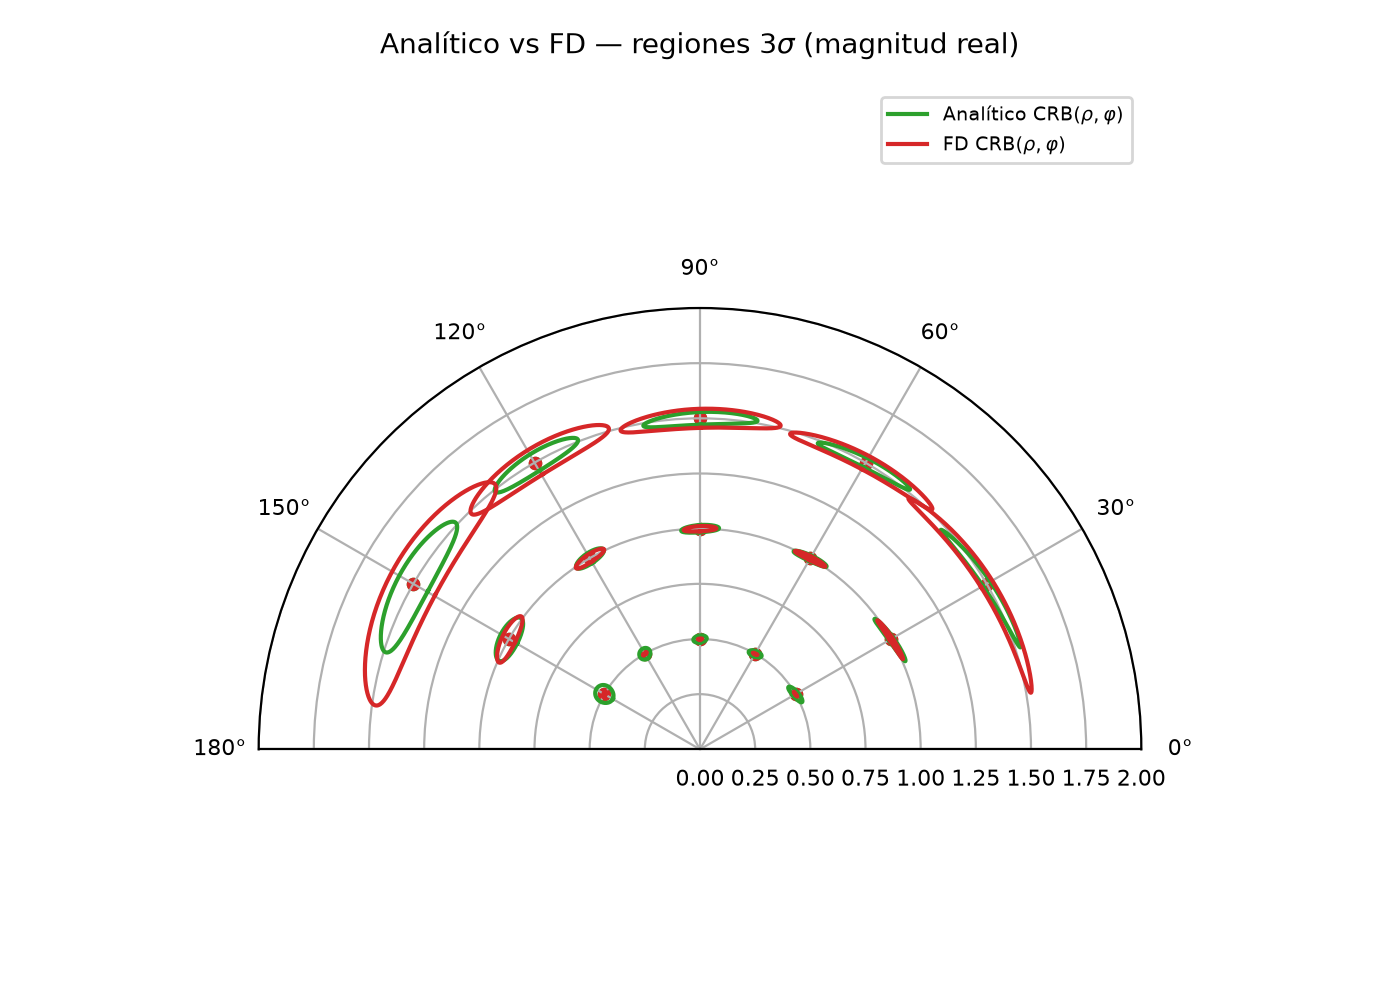
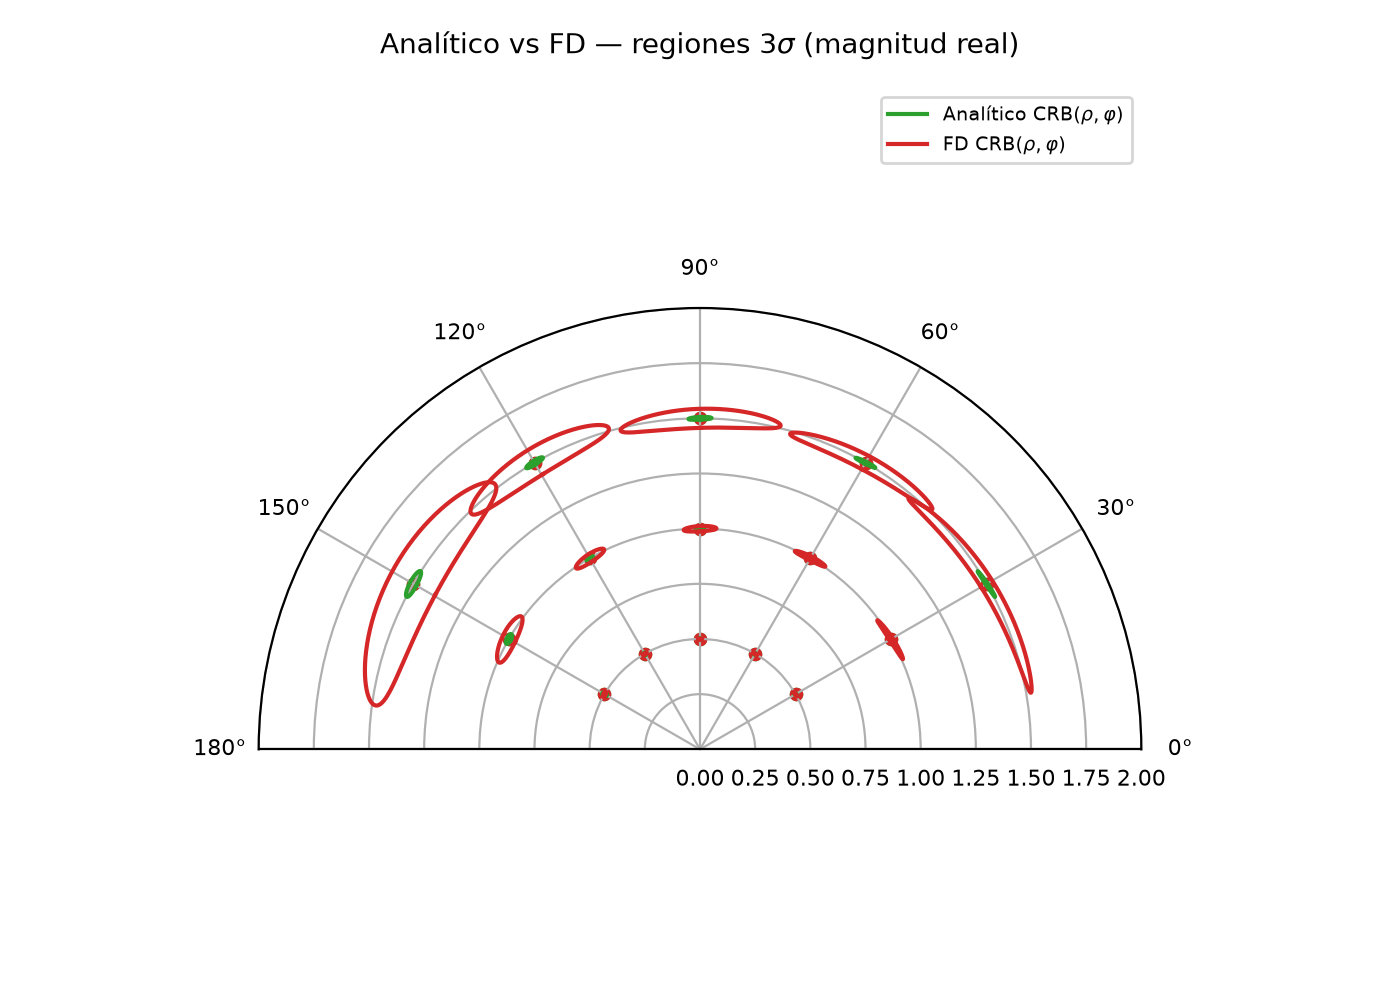
Regenerate analytic CRB plots + FD overlays for two-bounce model
Recompute the analytic (rho,phi) 3-sigma ellipse/bubble plots and the
analytic-vs-FD overlays after rewriting the forward to the simulator's
two-bounce intensity (4 cosines, 4pi^2). Analytic-only plots and the
shape-normalized / absolute overlays against the existing FD cache
(plots/crb_grid_results.pkl, previous rasterizer run) are refreshed, along
with docs/analytic_vs_fd_comparison.txt and docs/analytic_vs_fd_table.tex.
FD-only tracked plots are untouched.

diff --git a/docs/analytic_vs_fd_table.tex b/docs/analytic_vs_fd_table.tex
@@ -8,21 +8,21 @@
  & & \multicolumn{3}{c|}{Anal\'itico} & \multicolumn{3}{c}{FD (rasterizado)} \\
 $\rho$ & $\varphi^\circ$ & $\sigma_\rho$ & $\sigma_\varphi$ & asp & $\sigma_\rho$ & $\sigma_\varphi$ & asp \\
 \midrule
-0.5 & 30 & 0.005255 & 1.73 & 7.0 & 0.0006859 & 0.509 & 19.2 \\
-0.5 & 60 & 0.004762 & 1.16 & 4.5 & 0.0006779 & 0.44 & 14.0 \\
-0.5 & 90 & 0.005615 & 1.16 & 3.7 & 0.0007805 & 0.385 & 9.6 \\
-0.5 & 120 & 0.008278 & 1.01 & 2.2 & 0.001116 & 0.412 & 7.1 \\
-0.5 & 150 & 0.01454 & 1.46 & 1.8 & 0.001847 & 0.548 & 5.7 \\
-1.0 & 30 & 0.005748 & 2.26 & 10.1 & 0.003406 & 2.01 & 13.1 \\
-1.0 & 60 & 0.004987 & 1.57 & 6.3 & 0.003448 & 1.48 & 8.2 \\
-1.0 & 90 & 0.00585 & 1.64 & 5.2 & 0.004197 & 1.42 & 6.2 \\
-1.0 & 120 & 0.008383 & 1.42 & 3.0 & 0.006299 & 1.46 & 4.2 \\
-1.0 & 150 & 0.01434 & 2.08 & 2.6 & 0.01086 & 2.21 & 3.7 \\
-1.5 & 30 & 0.0102 & 4.11 & 11.2 & 0.01207 & 6.76 & 12.1 \\
-1.5 & 60 & 0.00874 & 2.98 & 7.0 & 0.01215 & 4.69 & 7.2 \\
-1.5 & 90 & 0.01025 & 3.31 & 6.1 & 0.01486 & 4.66 & 5.7 \\
-1.5 & 120 & 0.01454 & 2.83 & 3.5 & 0.02185 & 4.72 & 3.8 \\
-1.5 & 150 & 0.02478 & 4.28 & 3.0 & 0.03747 & 7.43 & 3.5 \\
+0.5 & 30 & 0.001306 & 0.426 & 6.9 & 0.0006859 & 0.509 & 19.2 \\
+0.5 & 60 & 0.001184 & 0.289 & 4.5 & 0.0006779 & 0.44 & 14.0 \\
+0.5 & 90 & 0.00139 & 0.284 & 3.6 & 0.0007805 & 0.385 & 9.6 \\
+0.5 & 120 & 0.002027 & 0.245 & 2.1 & 0.001116 & 0.412 & 7.1 \\
+0.5 & 150 & 0.003547 & 0.348 & 1.7 & 0.001847 & 0.548 & 5.7 \\
+1.0 & 30 & 0.001382 & 0.535 & 9.8 & 0.003406 & 2.01 & 13.1 \\
+1.0 & 60 & 0.001201 & 0.374 & 6.2 & 0.003448 & 1.48 & 8.2 \\
+1.0 & 90 & 0.0014 & 0.381 & 5.0 & 0.004197 & 1.42 & 6.2 \\
+1.0 & 120 & 0.001992 & 0.323 & 2.9 & 0.006299 & 1.46 & 4.2 \\
+1.0 & 150 & 0.003395 & 0.468 & 2.4 & 0.01086 & 2.21 & 3.7 \\
+1.5 & 30 & 0.002255 & 0.896 & 10.9 & 0.01207 & 6.76 & 12.1 \\
+1.5 & 60 & 0.001918 & 0.638 & 6.8 & 0.01215 & 4.69 & 7.2 \\
+1.5 & 90 & 0.002228 & 0.668 & 5.6 & 0.01486 & 4.66 & 5.7 \\
+1.5 & 120 & 0.00315 & 0.565 & 3.2 & 0.02185 & 4.72 & 3.8 \\
+1.5 & 150 & 0.005356 & 0.843 & 2.8 & 0.03747 & 7.43 & 3.5 \\
 \bottomrule
 \end{tabular}
 \end{table}
